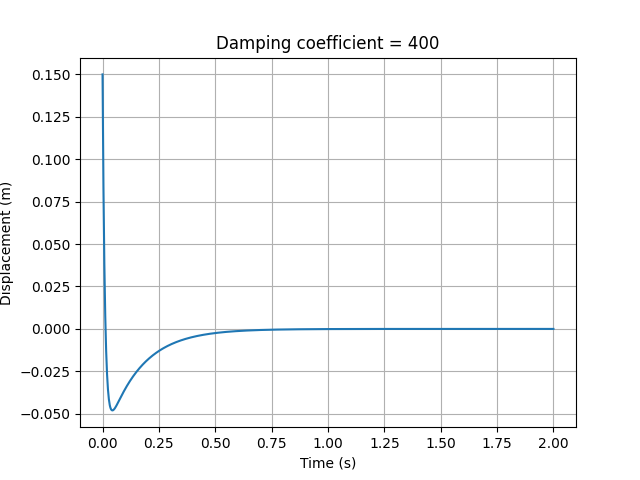
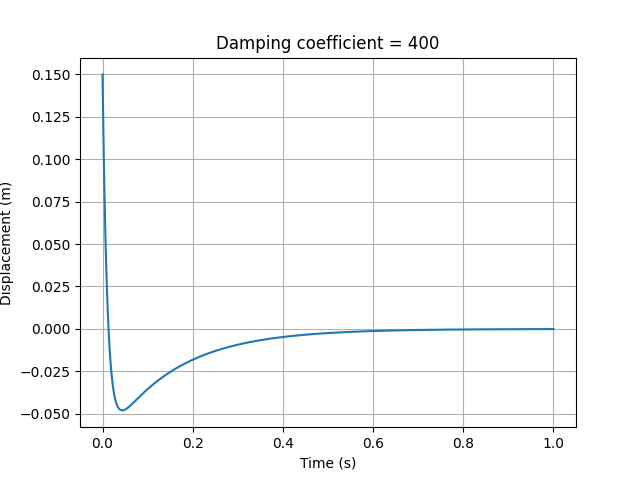
edit

diff --git a/question1.py b/question1.py
@@ -43,7 +43,7 @@ def plot_sol(x0,v0,t,m,k,c,fignum): #plotting the solution, we only need the rea
 
 x0=0.15#given initial conditions
 v0=-20
-t=np.linspace(0,2,1000)
+t=np.linspace(0,1,1000)
 m=4#given parameters of mass, spring constant and damping coefficients
 k=2500
 c=[0,100,200,400]
